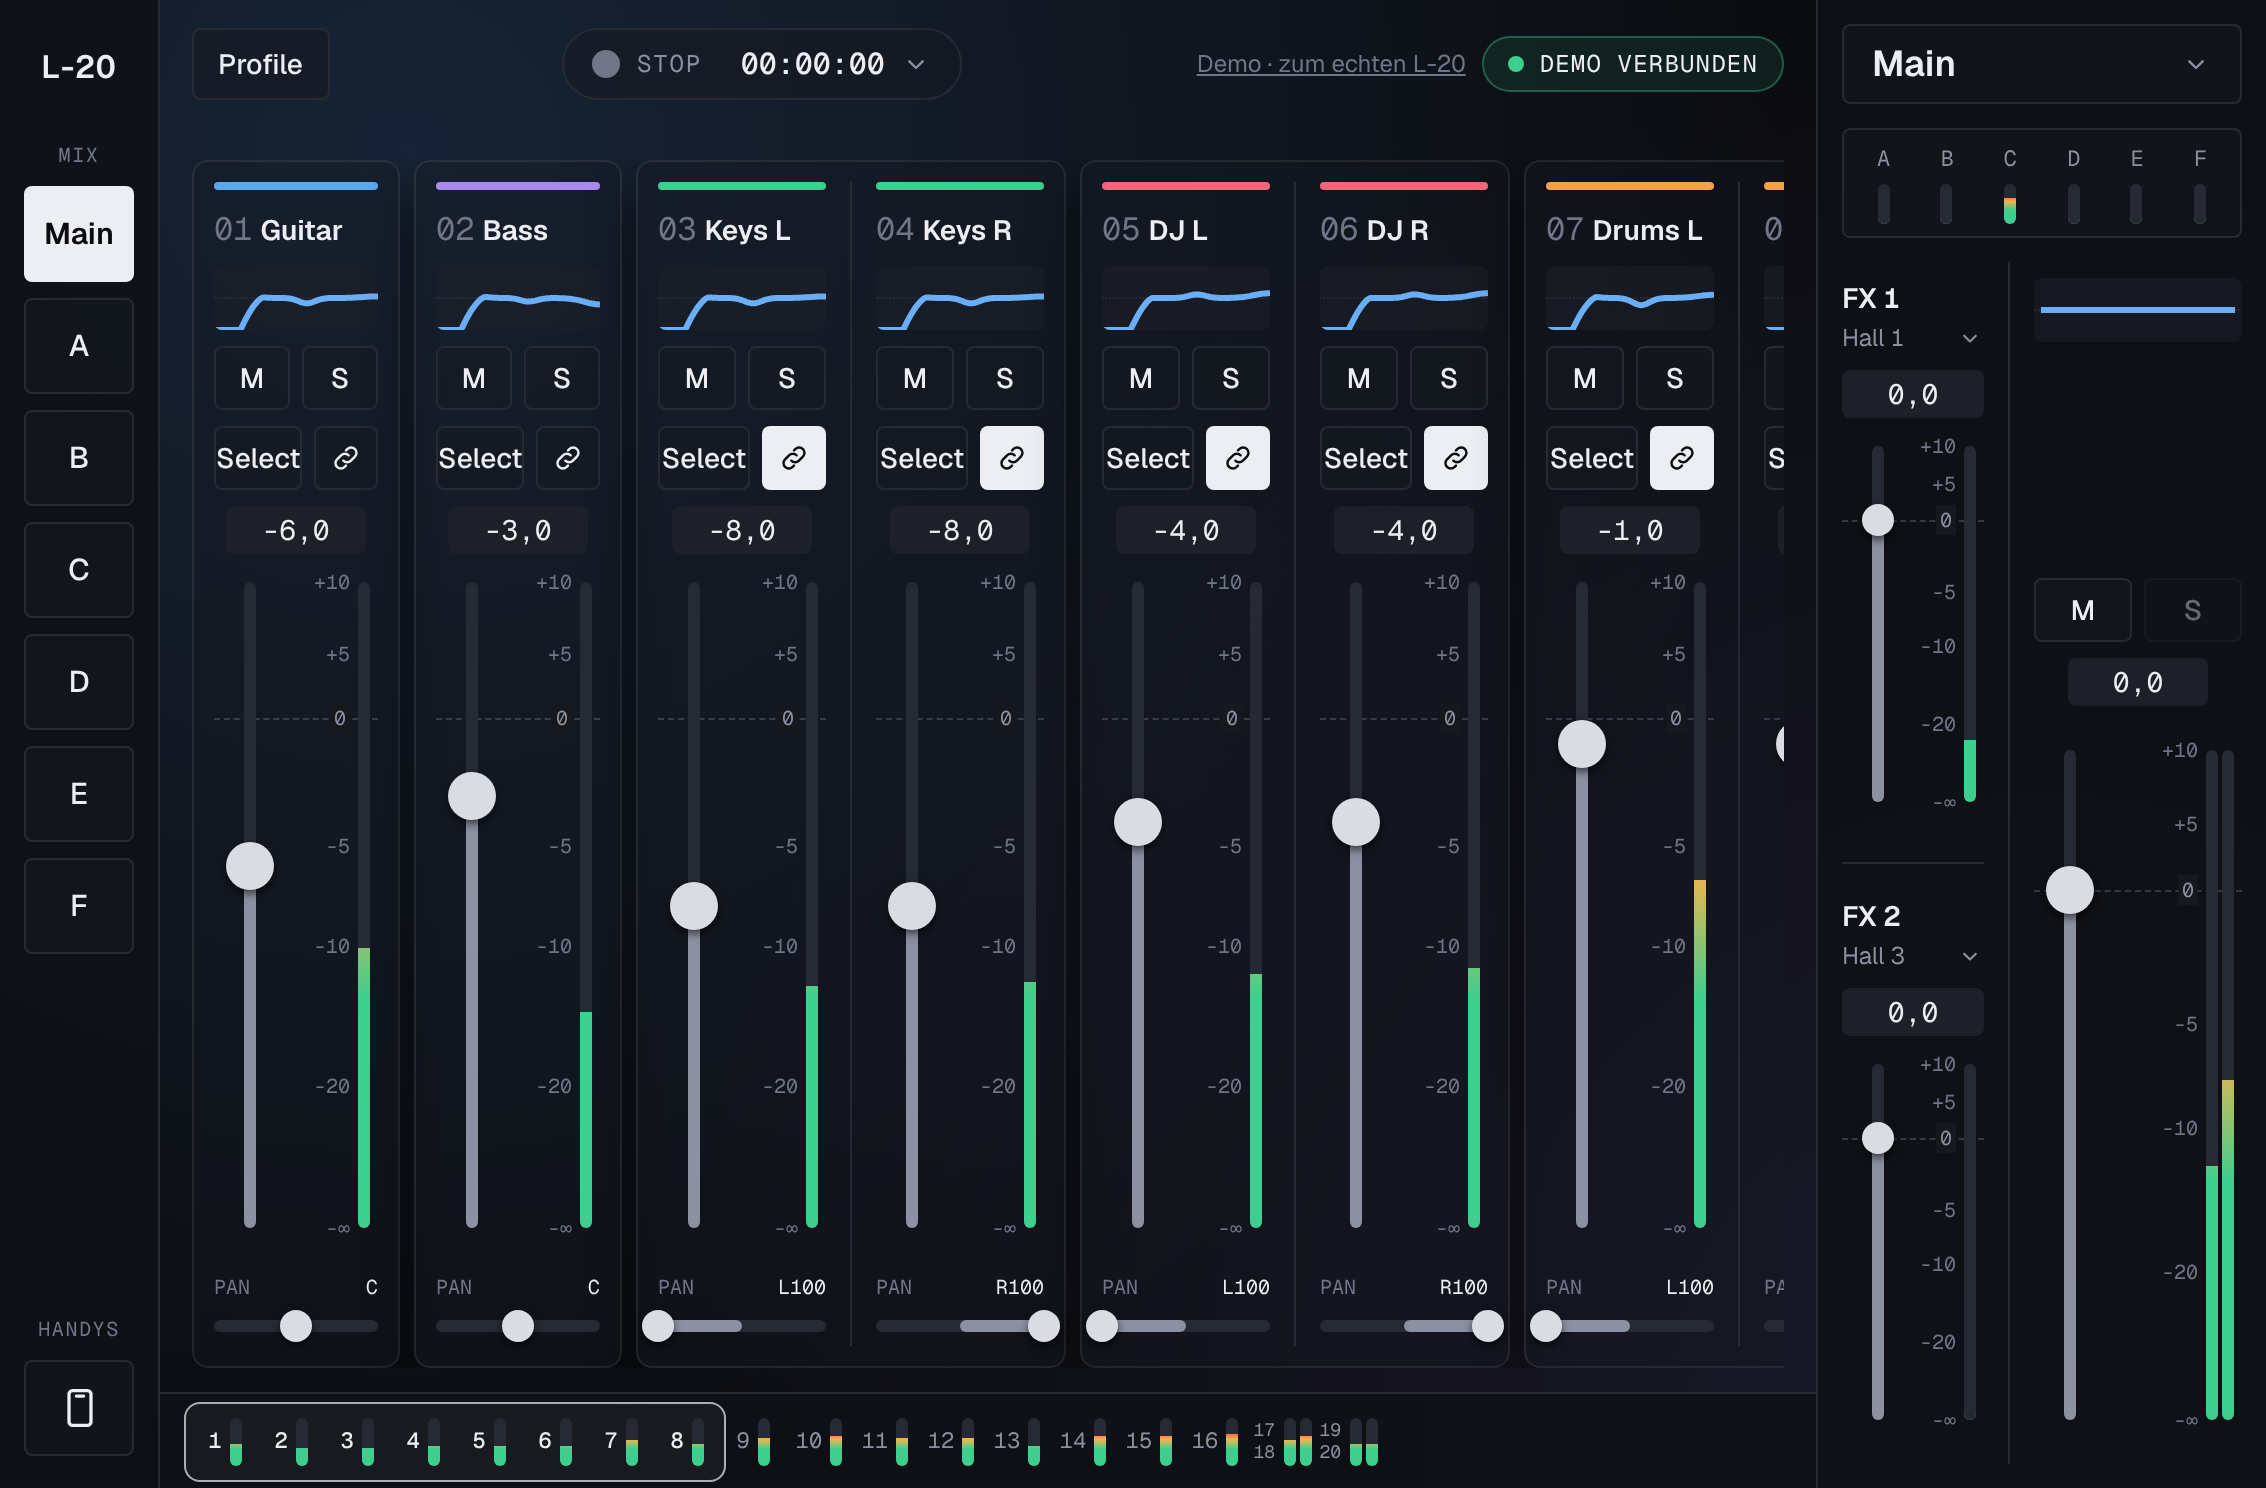
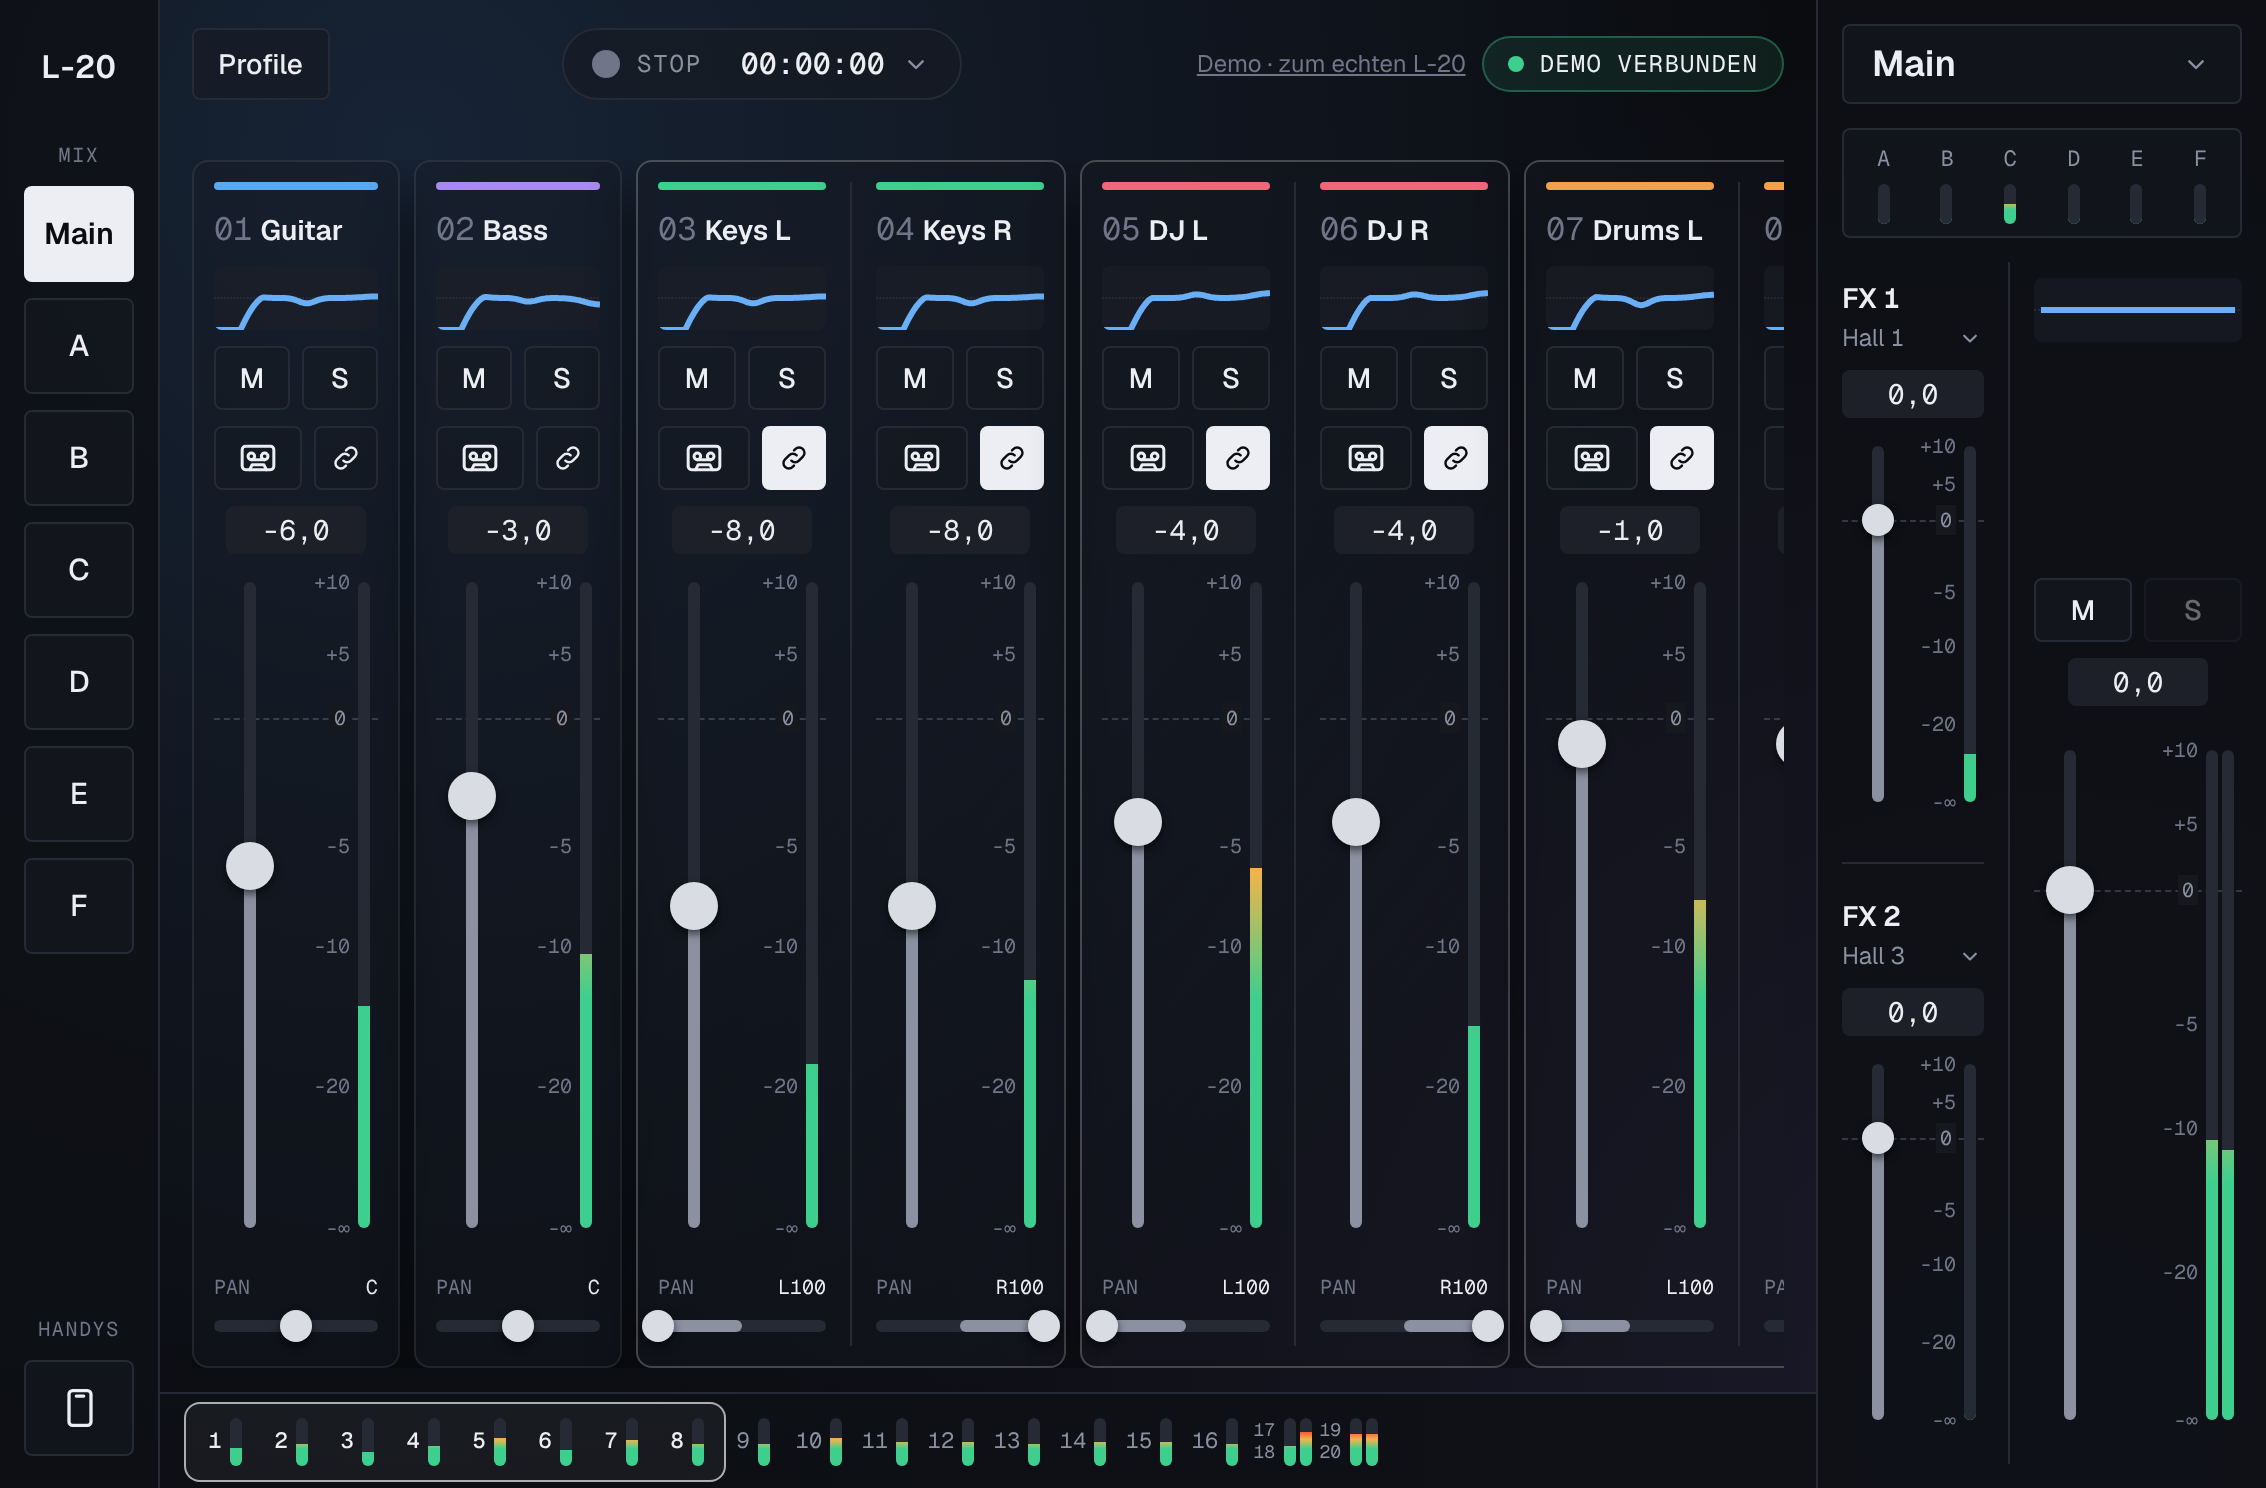
Stereo-Paare: Card-Kontur kontrastreicher als bei Mono-Kanälen
Claude-Session: https://claude.ai/code/session_01KbLEHxzsxzao1e8PDLg9ed

diff --git a/src/ui/screens/Console.tsx b/src/ui/screens/Console.tsx
@@ -49,7 +49,10 @@ export function Console({
         {channels.map((c) =>
           // a stereo pair shares one card, split by a divider (same width as two strips + gap)
           c.linkedWith && c.linkedWith < c.id ? null : c.linkedWith && !isFixedStereo(c.id) ? (
-            <div key={c.id} className="card flex w-[215px] shrink-0 justify-between">
+            <div
+              key={c.id}
+              className="card flex w-[215px] shrink-0 justify-between border-white/22!"
+            >
               <Strip c={c} mix={mix} onOpen={onOpen} bare />
               <div className="bg-line my-2.5 w-px shrink-0" />
               <Strip c={channels[c.linkedWith - 1]} mix={mix} onOpen={onOpen} bare />
